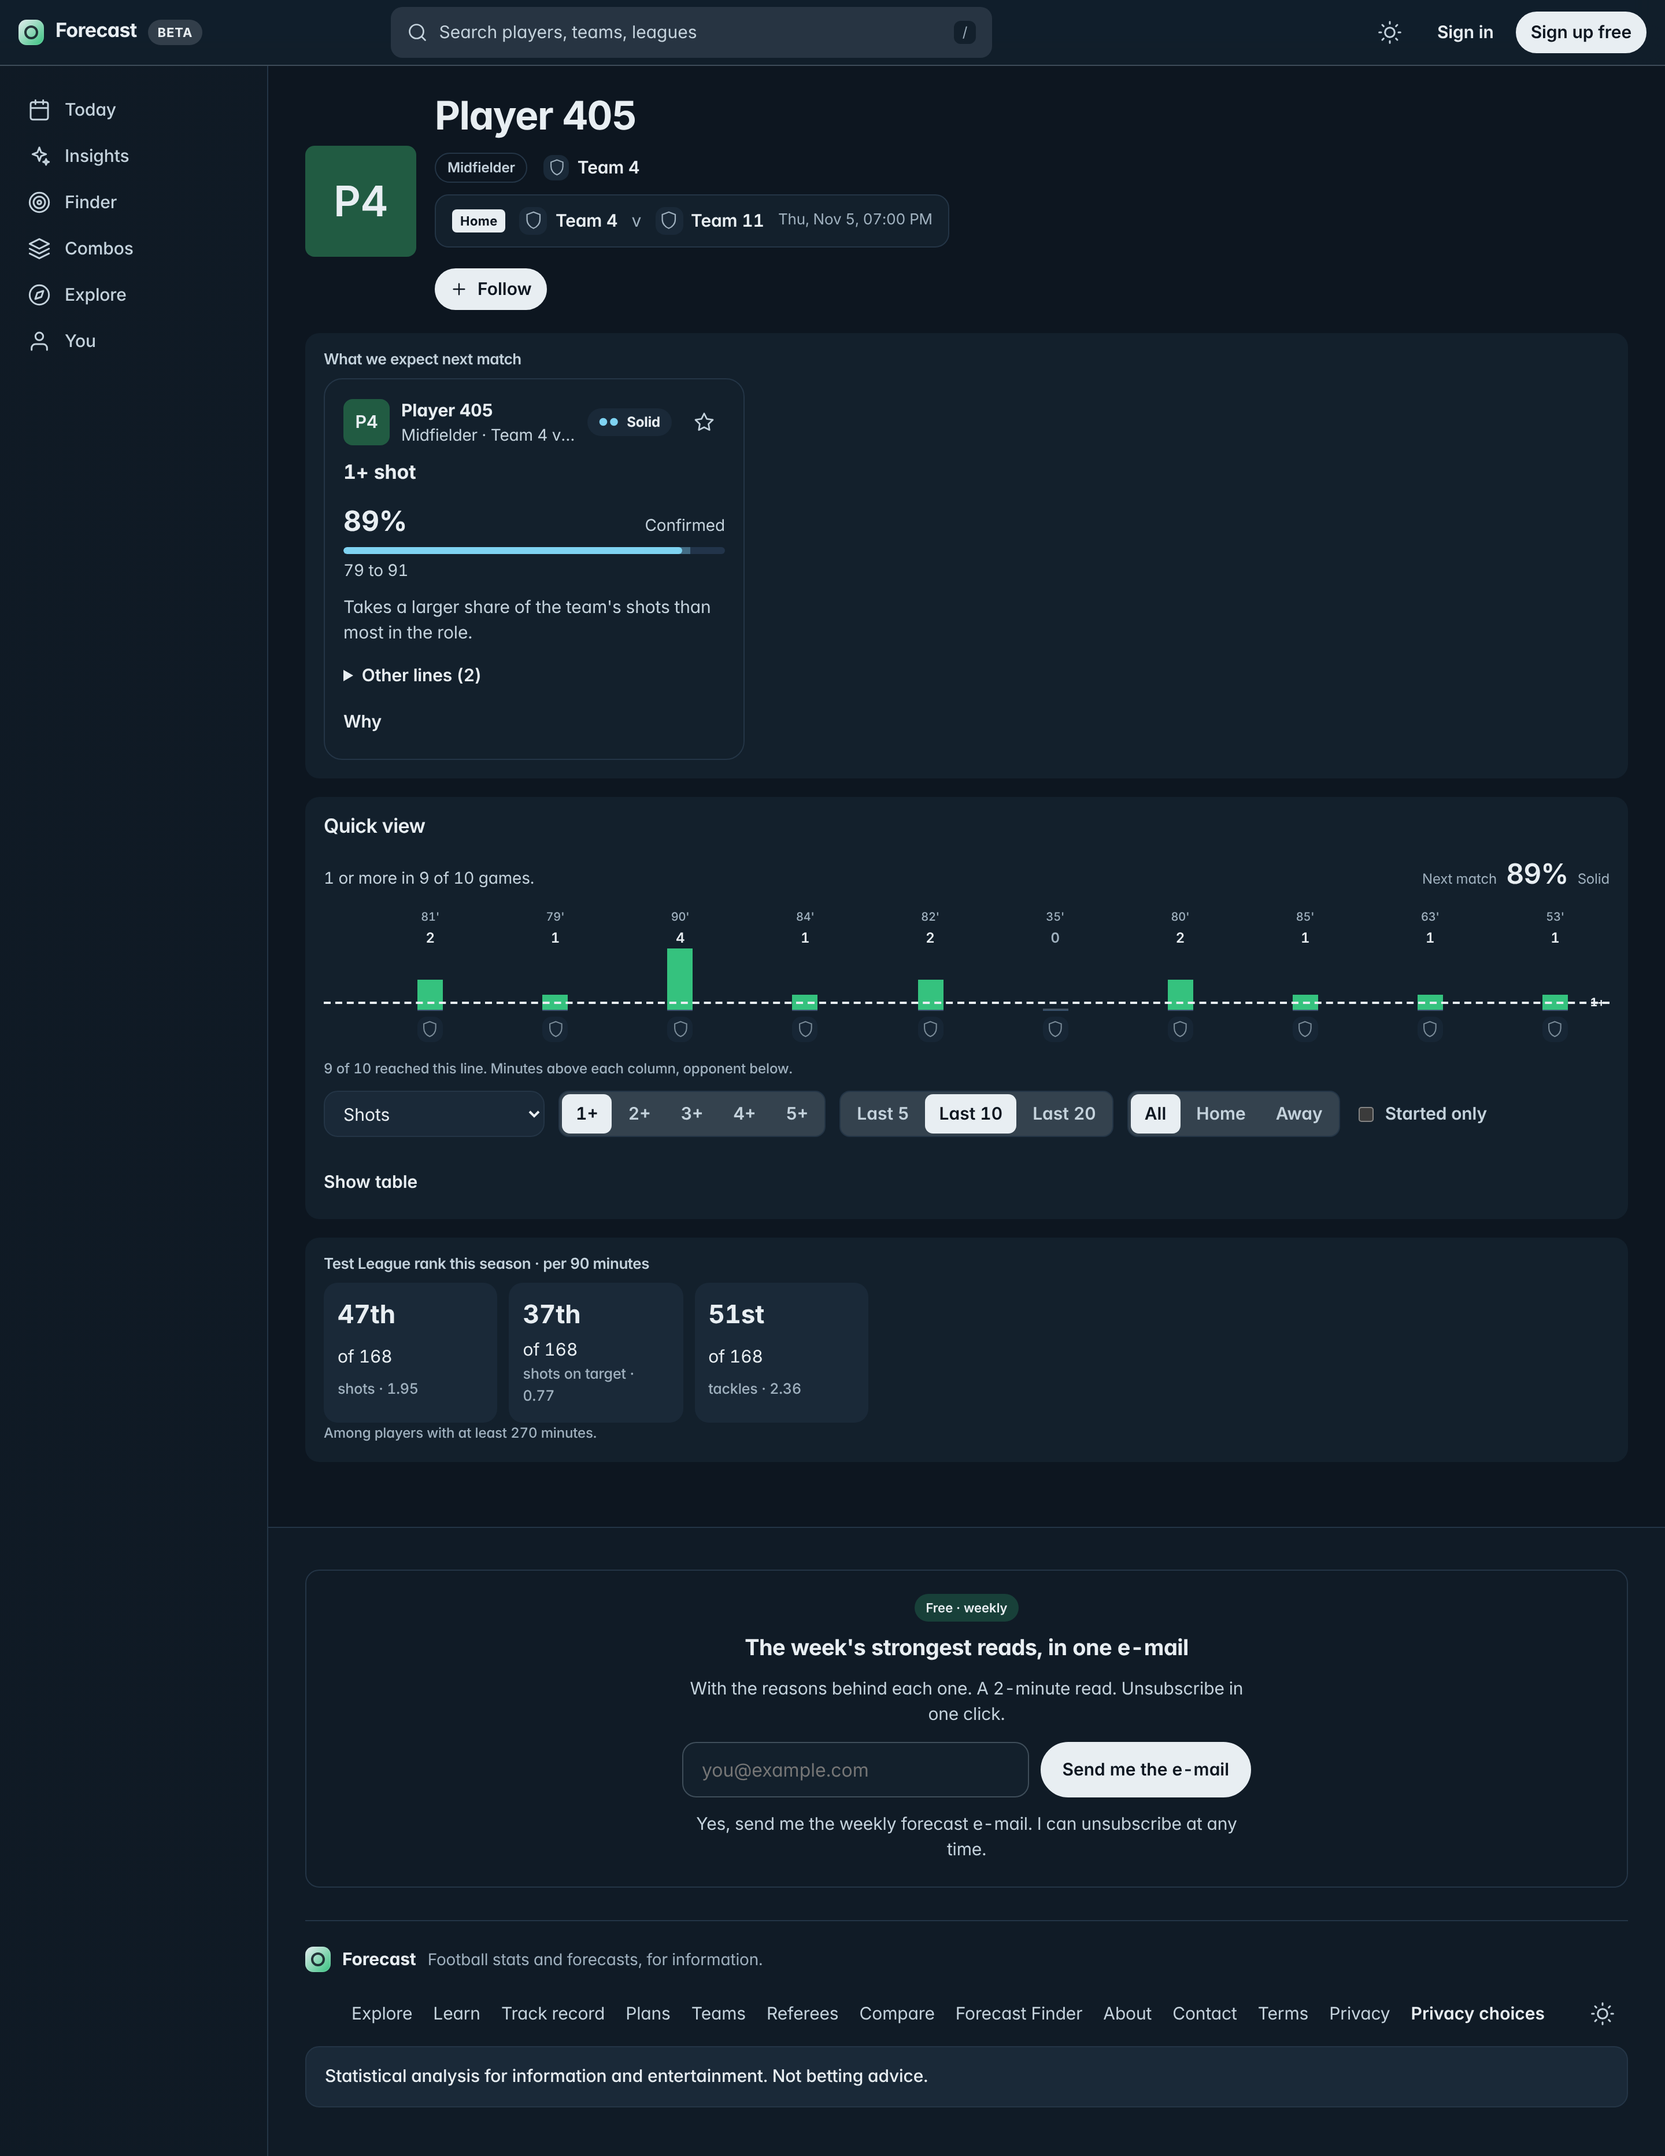
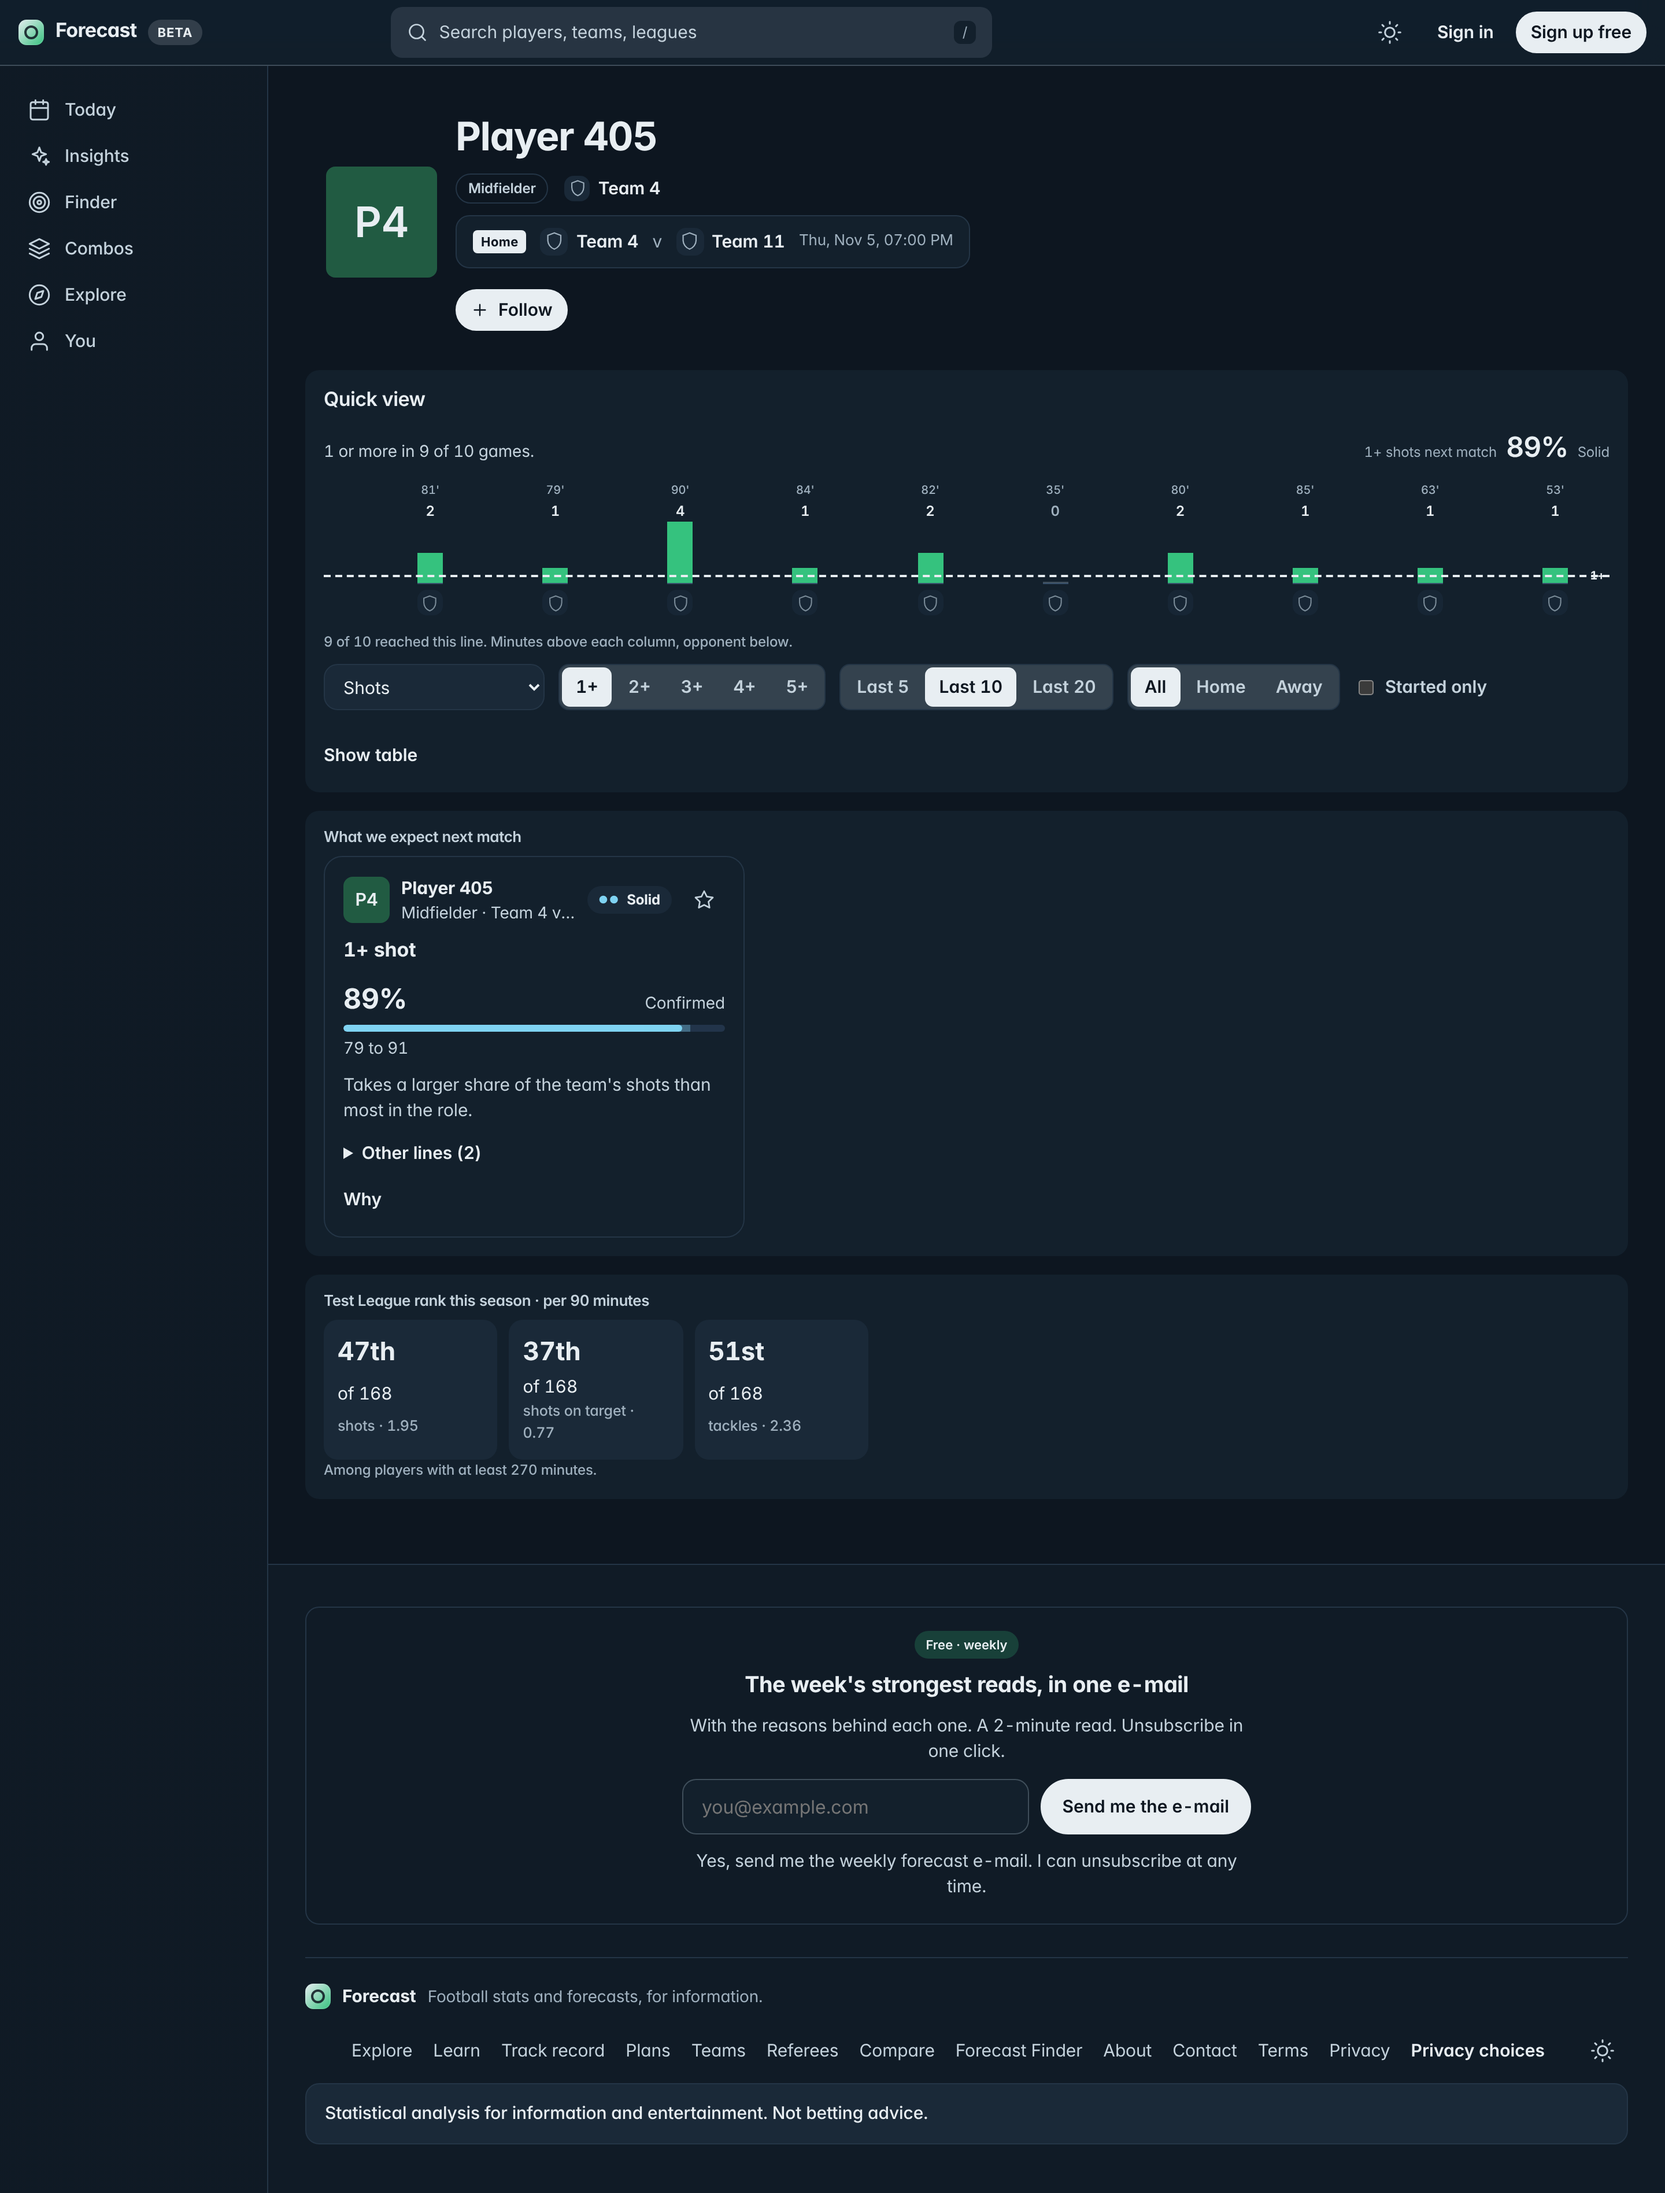
Player page: Quick view leads, the percentage follows the market, and a club wash
Three things, and I had only half-done two of them.

Quick view now actually leads. I had moved it above Ranks but left the next-match card between it
and the head, so it was still third on the page. It sits directly under the head; the forecast card
follows it.

The percentage now follows whatever market and line the reader picks. It was matching only against
stored lines, and a player keeps three lines per stat while the reader can pick five, so most
choices showed nothing. Every forecast carries its whole ladder, so the figure is resolved from
that instead. Verified by driving it: 1+ gives 89%, 2+ gives 52%, 3+ gives 24%.

That same check found silence where there is no forecast at all. Switching to tackles for a player
with no tackles line made the figure vanish, which reads as a bug rather than as an absence. It now
says so.

The club's mark sits behind the head, blurred to 54px so it reads as a tint rather than a logo on
the page, masked out before it reaches the text, and hidden under prefers-reduced-transparency.
Worth knowing: crests come from PitchAPI and demo data has none, so the first version rendered
nothing at all here -- the element was absent, not subtle. Without a crest there is no club colour
anywhere in the data, and inventing one would put a wrong brand colour behind a real club, so it
falls back to a neutral tint. On production, where crests exist, it will show the club.

Claude-Session: https://claude.ai/code/session_016hRGeSD52r5PfemmuLdhgZ

diff --git a/frontend/src/components/ui/QuickView.jsx b/frontend/src/components/ui/QuickView.jsx
@@ -24,8 +24,14 @@ export function QuickView({ playerId, stat: stat0 = "shots", line: line0 = 1, ti
   const known = games.filter((g) => g[stat] != null).length;
   const hits = games.filter((g) => g[stat] != null && g[stat] >= line).length;
   // Asked for: whichever market and line the reader picks, show what we expect for it next match.
-  // The box was all history and no forecast, so the page made you hold the two apart in your head.
-  const fc = (forecasts || []).find((f) => f.stat === stat && Math.floor(f.thr) + 1 === Number(line));
+  // Matching only the stored line would leave most choices blank, because a player keeps three
+  // lines per stat and the reader can pick five. Every forecast carries the whole ladder, so the
+  // percentage is resolved from that and follows any market and line combination.
+  const fcAny = (forecasts || []).find((f) => f.stat === stat);
+  const fcExact = (forecasts || []).find((f) => f.stat === stat && Math.floor(f.thr) + 1 === Number(line));
+  const fromLadder = fcAny?.ladder?.[String(Number(line) - 0.5)];
+  const fcP = fcExact ? fcExact.p : (typeof fromLadder === "number" ? fromLadder : null);
+  const fc = fcP == null ? null : { p: fcP, tier: fcExact?.tier || null, exact: !!fcExact };
   return (
     <section className="qv" data-testid={testid}>
       {title && <h3 className="k-sec">{title}</h3>}
@@ -33,13 +39,19 @@ export function QuickView({ playerId, stat: stat0 = "shots", line: line0 = 1, ti
         <>
           <div className="v2-qv-head">
             <p className="muted small" data-testid={`${testid}-summary`}>{known ? `${line} or more in ${hits} of ${known} games.` : "No data for this stat."}</p>
-            {fc && (
+            {fc ? (
               <p className="v2-qv-fc" data-testid={`${testid}-forecast`}>
-                <span>Next match</span>
+                <span>{line}+ {label.toLowerCase()} next match</span>
                 <b>{Math.round((fc.p || 0) * 100)}%</b>
-                {fc.tier && <em>{fc.tier}</em>}
+                {fc.tier ? <em>{fc.tier}</em> : null}
               </p>
-            )}
+            ) : forecasts ? (
+              /* Silence here read as a bug: switch to a market this player has no forecast for and
+                 the figure simply vanished, with nothing to say whether it was missing or loading. */
+              <p className="v2-qv-fc v2-qv-fc--none" data-testid={`${testid}-forecast`}>
+                <span>No forecast for {label.toLowerCase()} next match</span>
+              </p>
+            ) : null}
           </div>
           <GameStrip games={games} stat={stat} line={line} label={label} testid={`${testid}-strip`} />
           {/* docs/redesign/v2: the market and the line ARE the question this box answers, so they lead

diff --git a/frontend/src/pages/Player.jsx b/frontend/src/pages/Player.jsx
@@ -95,6 +95,14 @@ export default function Player() {
           before anything else, so they are in the head: the club as its crest, and the fixture with
           both crests and whether he is at home or away. */}
       <header className="phead v2-phead">
+        {/* The club's mark, blurred right down behind the head, so the page is recognisably about
+            this club before a word is read. Decorative only: it carries no information the text
+            does not, so it is hidden from assistive technology and sits under everything. */}
+        {/* With a crest we blur the real thing; without one (crests arrive from PitchAPI and are
+            absent in demo data) the head still gets a quiet tint rather than nothing, so the
+            treatment does not appear and disappear with the image. */}
+        <span className={"v2-phead-wash" + (team?.image_url ? "" : " is-plain")} aria-hidden="true"
+              style={team?.image_url ? { backgroundImage: `url(${team.image_url})` } : undefined} />
         <PlayerAvatar player={p} size={96} decorative={false} />
         <div className="phead-main">
           <h1>{p.name}</h1>
@@ -114,6 +122,7 @@ export default function Player() {
           <div><FollowButton kind="player" refId={p.id} name={p.name} /></div>
         </div>
       </header>
+      <History id={id} forecasts={forecasts} />
       {/* The fixture itself has moved into the head, so this is what it was always for: the lines. */}
       <section className="card" data-testid="player-next">
         <h2 className="k-sec">What we expect next match</h2>
@@ -125,7 +134,6 @@ export default function Player() {
           of the same ten games stacked on one page -- the four-line overview could not be
           interrogated and the detailed one could not be compared. Quick view now does both jobs,
           because its strip draws the run graph for whichever market and line you choose. */}
-      <History id={id} forecasts={forecasts} />
       <Ranks id={id} />
       <Note id={id} />
     </section>

diff --git a/frontend/src/styles/v2.css b/frontend/src/styles/v2.css
@@ -754,3 +754,26 @@ h2, .k-sec, .td-sec-head h2, .ins h2, .mc-sec h2, .pr h2, .tm h2, .fg-head h3, .
   width: 0 !important; border-right: 2px solid var(--tone, var(--text));
   background: none; height: 18px; top: 2px;
 }
+
+/* The club's mark behind the player head: blurred far past recognition as a picture, so it reads
+   as a tint rather than as a logo sitting on the page, and faded out before it reaches the text.
+   It is decorative, so it never carries contrast the content depends on. */
+.v2-phead { position: relative; isolation: isolate; overflow: hidden; border-radius: 16px; padding: 18px 18px 14px; }
+.v2-phead-wash {
+  position: absolute; inset: -40% -10% auto -10%; height: 220px; z-index: -1;
+  background-repeat: no-repeat; background-position: 12% 40%; background-size: 46% auto;
+  filter: blur(54px) saturate(1.5); opacity: .5; pointer-events: none;
+  mask-image: linear-gradient(to bottom, #000 0 55%, transparent 100%);
+  -webkit-mask-image: linear-gradient(to bottom, #000 0 55%, transparent 100%);
+}
+@media (prefers-color-scheme: light) { :root:not([data-theme="dark"]) .v2-phead-wash { opacity: .38; } }
+:root[data-theme="light"] .v2-phead-wash { opacity: .38; }
+@media (prefers-reduced-transparency: reduce) { .v2-phead-wash { display: none; } }
+
+/* Without a crest there is no club colour anywhere in the data, and inventing one would put a
+   wrong brand colour behind a real club. The head keeps a neutral tint instead. */
+.v2-phead-wash.is-plain {
+  background: radial-gradient(60% 120% at 14% 0%, var(--surface2) 0%, transparent 70%);
+  filter: none; opacity: 1;
+}
+.v2-qv-fc--none span { color: var(--text3); }
